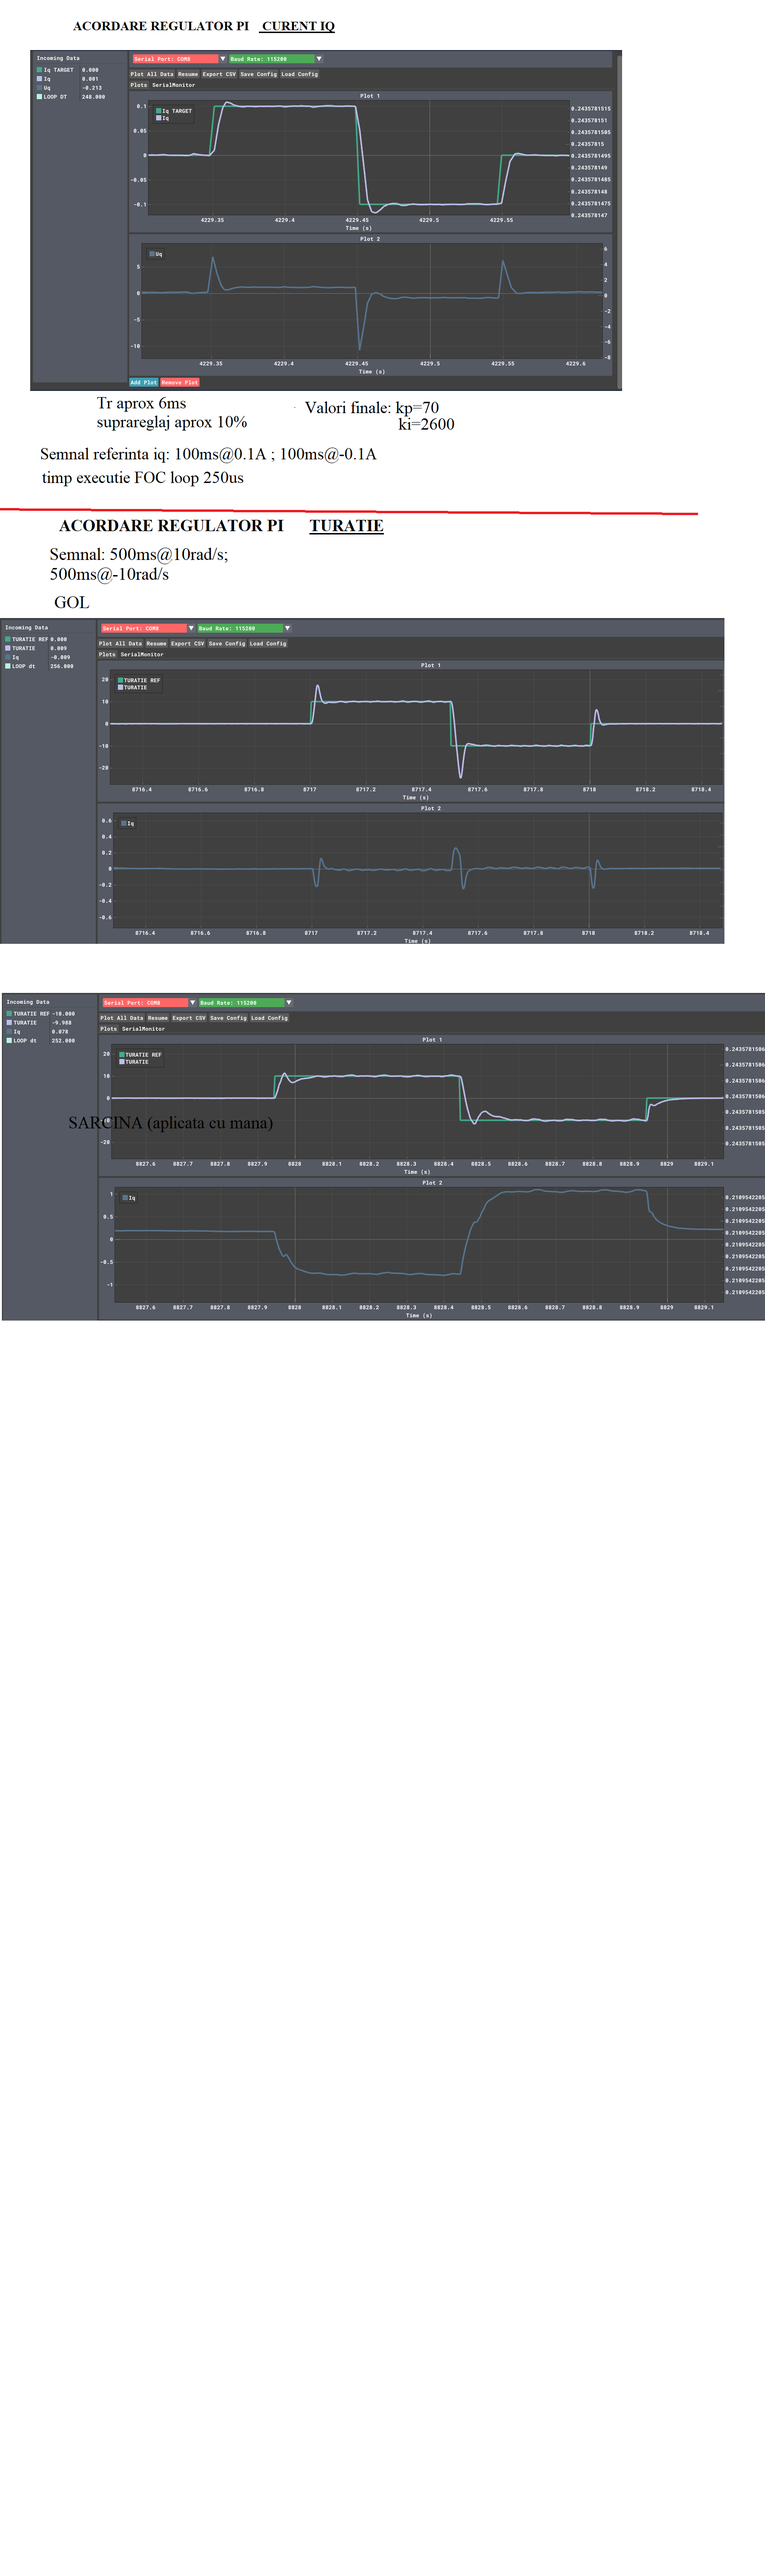
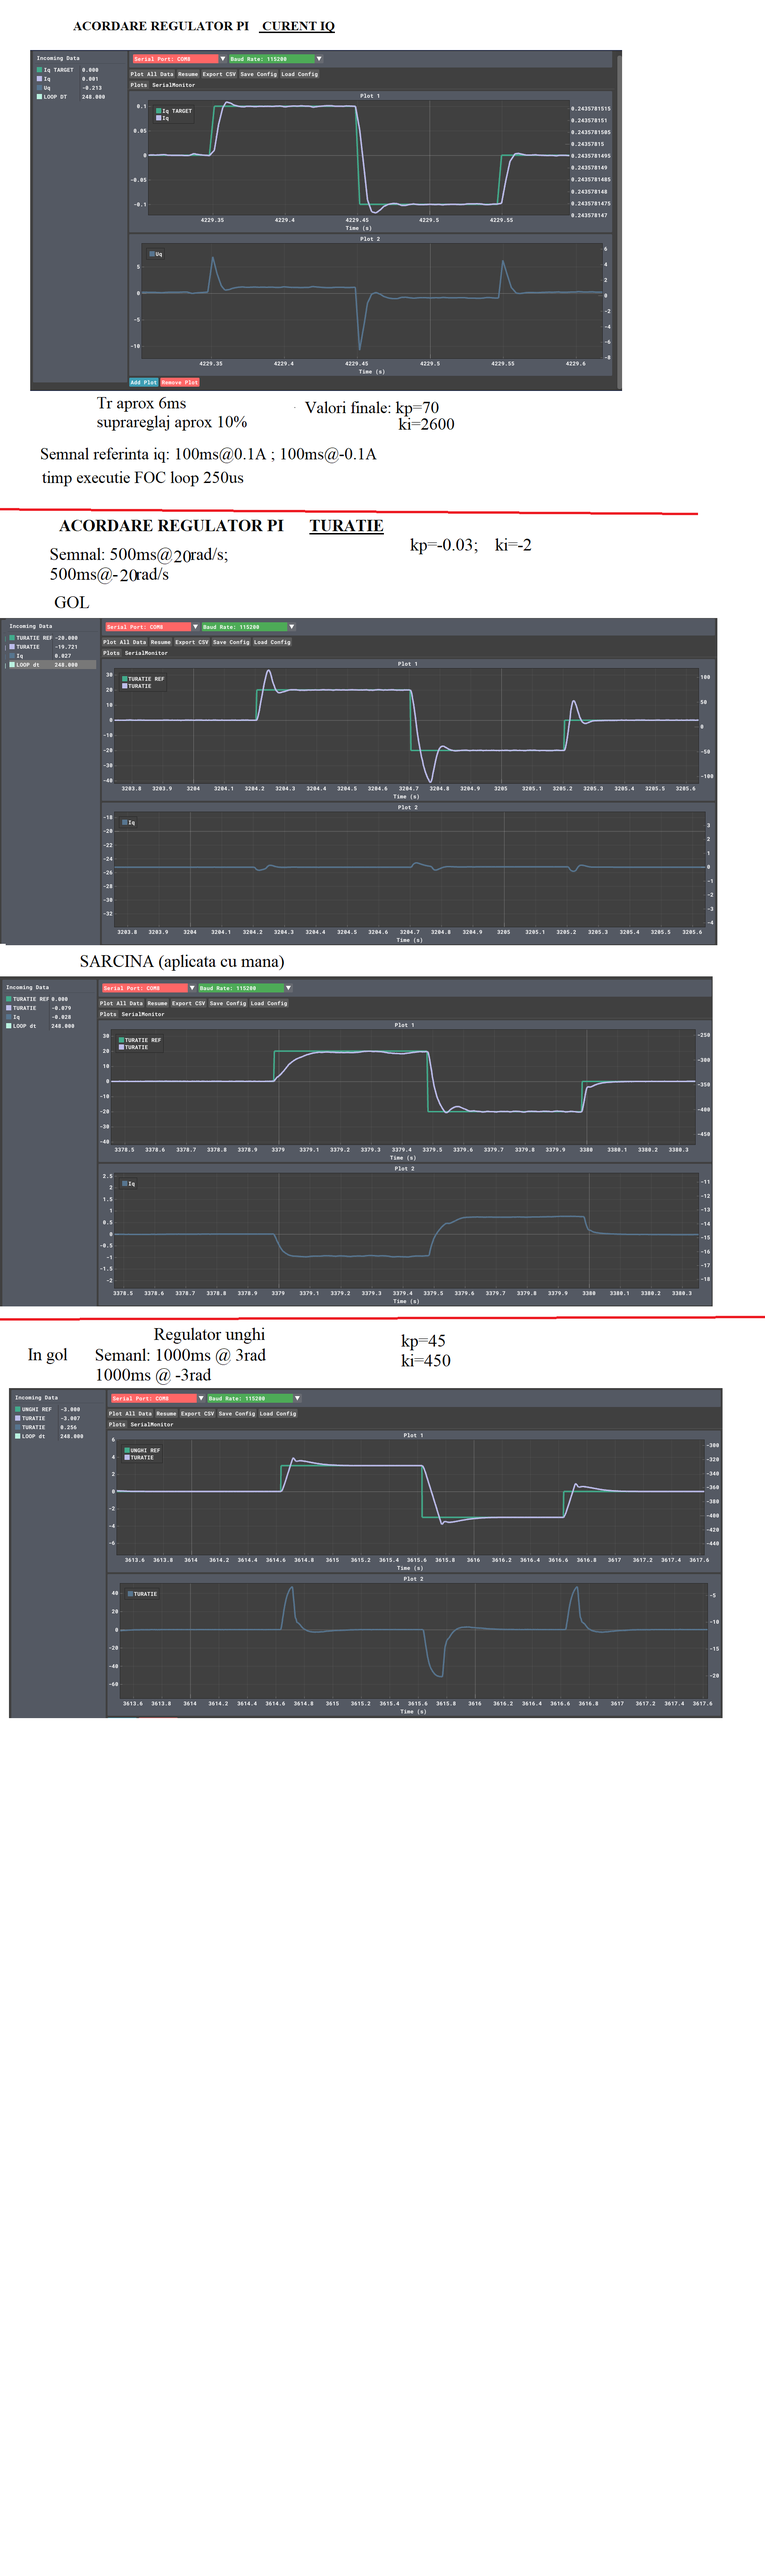
acordat regulatoare somewhat (in gol), trebuie refacut in sarcina

diff --git a/main.cpp b/main.cpp
@@ -428,7 +428,7 @@ class PIController{
 //class for foc algorithm
 class foc_controller{
     public:
-        foc_controller(bridge_driver* associated_driver, encoder* associated_encoder, current_sensor* associated_current_sensor, uint motor_pole_pairs, uint power_supply_voltage, float phase_resistance):current_controller(70,2600,14),iq_filter(0.01),vel_controller(-0.05,-4,1.3),angle_controller(15,40,50){
+        foc_controller(bridge_driver* associated_driver, encoder* associated_encoder, current_sensor* associated_current_sensor, uint motor_pole_pairs, uint power_supply_voltage, float phase_resistance):current_controller(70,2600,14),iq_filter(0.01),vel_controller(-0.03,-2,1.3),angle_controller(45,450,50){
             this->asoc_driver=associated_driver;
             this->asoc_encoder=associated_encoder;
             this->asoc_cs=associated_current_sensor;
@@ -492,7 +492,8 @@ class foc_controller{
             if(mode==3)
                 angle_target=manual_angle_target;
             float angle_meas=asoc_encoder->get_absolute_angle_rad();
-            old_angle_target=rampTargetAngle(old_angle_target,angle_target,angle_ramp,delta_time);
+            // old_angle_target=rampTargetAngle(old_angle_target,angle_target,angle_ramp,delta_time);
+            old_angle_target=angle_target;
             float angle_error=old_angle_target-angle_meas;
             velocity_target=angle_controller.compute(angle_error);
 
@@ -530,7 +531,7 @@ class foc_controller{
             // printf("%f %f %f %f\n",velocity_meas,velocity_target,iq_target,uq);
             //incetinit printarea la consola pentru a ajunge la 250us
             if(cnt%10==0)
-                printf("%f %f %f %f\n",velocity_target,velocity_meas,meas_current.q,delta_time*1000000.0);
+                printf("%f %f %f %f\n",angle_target,angle_meas,velocity_meas,delta_time*1000000.0);
             cnt++;
         }
         //pid target variables
@@ -1025,18 +1026,19 @@ int main()
         //    // foc.velocity_target*=-1;
         //     tim=time_us_32()+2000*1000;
         // }
-        cmd_packet.command=2;
+        cmd_packet.command=3;
         for(;;){
-            cmd_packet.argument=10;
+            cmd_packet.argument=3;
             queue_add_blocking(&comm_queue_01,&cmd_packet);
-            sleep_ms(500);
-            cmd_packet.argument=-10;
+            sleep_ms(1000);
+            cmd_packet.argument=-3;
             queue_add_blocking(&comm_queue_01,&cmd_packet);
-            sleep_ms(500);
+            sleep_ms(1000);
             cmd_packet.argument=0;
             queue_add_blocking(&comm_queue_01,&cmd_packet);
             sleep_ms(1500);
         }
+
         // test current transforms
         // for(float test_theta=0;test_theta<_2PI;test_theta+=0.05){
         //     test_c.a=sin(test_theta);
